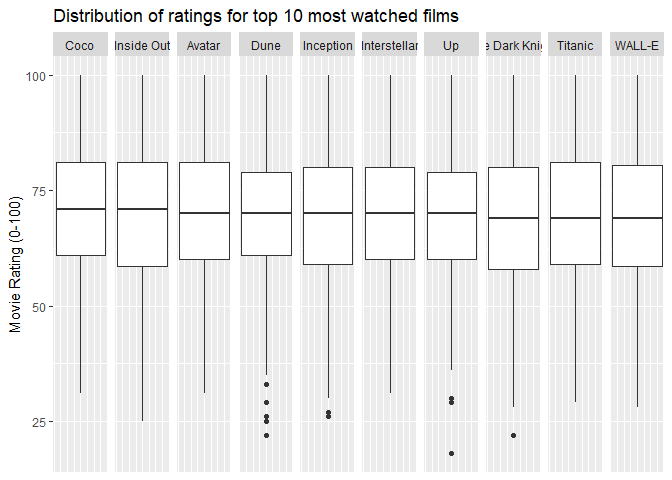
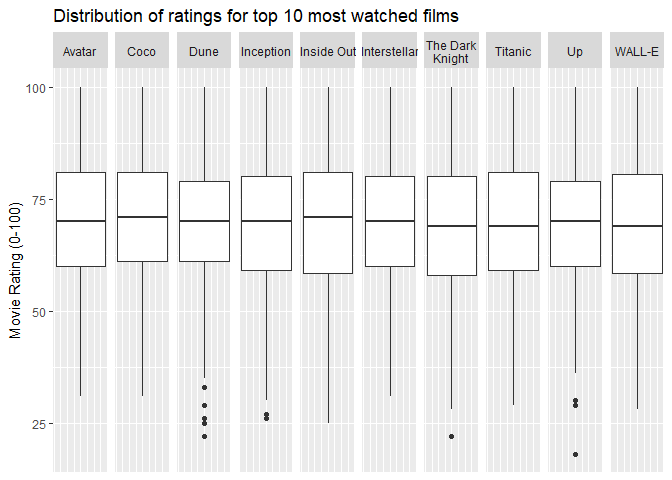
Task 5 plot adjusted

diff --git a/coursework_01.md b/coursework_01.md
@@ -521,7 +521,8 @@ top10_watched_movies <- cinemetrics %>%
 
 most_watched_movies <- cinemetrics %>%
   filter(movie_title %in% top10_watched_movies$movie_title) %>% 
-  mutate(movie_title = fct_reorder(movie_title, user_rating_100, .desc = TRUE, .na_rm = TRUE))
+  mutate(movie_title = fct_reorder(movie_title, user_rating_100, .desc = TRUE, .na_rm = TRUE),
+         movie_title = str_wrap(movie_title, width = 10)) # GenAI used to find str_wrap function, in order to display the movie titles neater in my plot
   
 
 most_watched_movies %>% 
@@ -558,18 +559,18 @@ most_watched_movies %>%
 ```
 
     # A tibble: 10 × 2
-       movie_title       IQR
-       <fct>           <dbl>
-     1 Inside Out       22.5
-     2 The Dark Knight  22  
-     3 Titanic          22  
-     4 WALL-E           22  
-     5 Avatar           21  
-     6 Inception        21  
-     7 Coco             20  
-     8 Interstellar     20  
-     9 Up               19  
-    10 Dune             18  
+       movie_title          IQR
+       <chr>              <dbl>
+     1 "Inside Out"        22.5
+     2 "The Dark\nKnight"  22  
+     3 "Titanic"           22  
+     4 "WALL-E"            22  
+     5 "Avatar"            21  
+     6 "Inception"         21  
+     7 "Coco"              20  
+     8 "Interstellar"      20  
+     9 "Up"                19  
+    10 "Dune"              18  
 
 #### Empirical Verification
 
